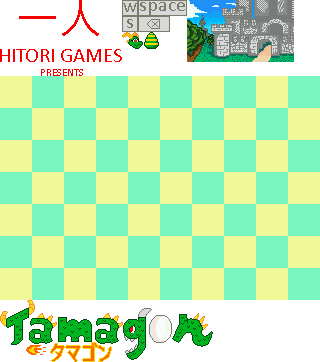
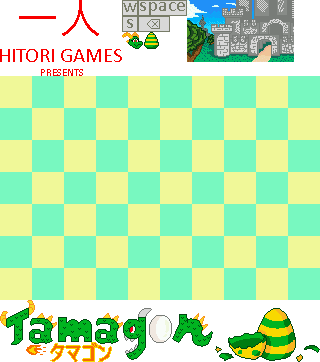
Added Game Over

Changed region(s): [[0.6562, 0.8508, 1.0, 1.0]]

diff --git a/tamagon/src/tamagon/UserInterface.java b/tamagon/src/tamagon/UserInterface.java
@@ -15,7 +15,8 @@ public class UserInterface {
 	/**
 	 * UI graphic elements
 	 */
-	private BufferedImage hitoriLogo, titleBg, tamagonLogo, wkey, skey, space, backspace, lifeIcon, eggIcon, castleland;
+	private BufferedImage hitoriLogo, titleBg, tamagonLogo, wkey, skey, space, backspace, lifeIcon, eggIcon, castleland,
+			gameOver;
 
 	/**
 	 * Fade in/out animation frames
@@ -75,6 +76,7 @@ public class UserInterface {
 		lifeIcon = UISpritesheet.getSprite(122, 32, 21, 17);
 		eggIcon = UISpritesheet.getSprite(143, 32, 17, 17);
 		castleland = UISpritesheet.getSprite(187, 0, 107, 62);
+		gameOver = UISpritesheet.getSprite(213, 300, 107, 62);
 	}
 
 	/**
@@ -98,8 +100,40 @@ public class UserInterface {
 			renderPaused(g);
 		} else if (Game.gameState.equals("restart")) {
 			renderRestart(g);
+		} else if (Game.gameState.equals("gameover")) {
+			renderGameOver(g);
 		}
 
+	}
+
+	/**
+	 * Render game over
+	 * 
+	 * @param g
+	 */
+	private void renderGameOver(Graphics g) {
+		// Game Over label
+		g.setColor(new Color(248, 144, 32));
+		g.setFont(new Font("Calibri", Font.BOLD, 16 * Game.scale));
+		g.drawString("GAME OVER", (Game.width / 2) - (42 * Game.scale), (Game.height / 2) - 40 * Game.scale);
+
+		g.setColor(new Color(248, 216, 32));
+		g.setFont(new Font("Calibri", Font.PLAIN, 16 * Game.scale));
+		g.drawString("GAME OVER", (Game.width / 2) - (42 * Game.scale), (Game.height / 2) - 40 * Game.scale);
+
+		// Broken eggs
+		g.drawImage(gameOver, (Game.width / 2) - (107 * Game.scale) / 2, (Game.height / 2) - (31 * Game.scale) / 2,
+				107 * Game.scale, 62 * Game.scale, null);
+
+		// Interval between fade in and fade out
+		if (startInterval) {
+			interval--;
+			if (interval == 0) {
+				startInterval = false;
+				interval = maxInterval;
+				Game.gameState = "title";
+			}
+		}
 	}
 
 	/**
@@ -127,7 +161,16 @@ public class UserInterface {
 				fadedIn = true;
 				fadeOut = 255;
 				fadeIn = 0;
-				Game.restartLevel();
+				if (Player.life > 0) {
+					Game.restartLevel();
+				} else {
+					Game.gameState = "gameover";
+					startInterval = true;
+					Game.entities.clear();
+					Game.enemies.clear();
+					Player.life = 3;
+					Player.score = 0;
+				}
 			}
 		}
 
@@ -137,7 +180,7 @@ public class UserInterface {
 			// LOADING
 			g.setColor(new Color(248, 216, 32));
 			g.setFont(new Font("Calibri", Font.PLAIN, 12 * Game.scale));
-			g.drawString("LOADING", Game.width/2 - 30*Game.scale, Game.height/2);
+			g.drawString("LOADING", Game.width / 2 - 30 * Game.scale, Game.height / 2);
 
 			// Color black for fade out
 			g.setColor(new Color(0, 0, 0, fadeOut));
